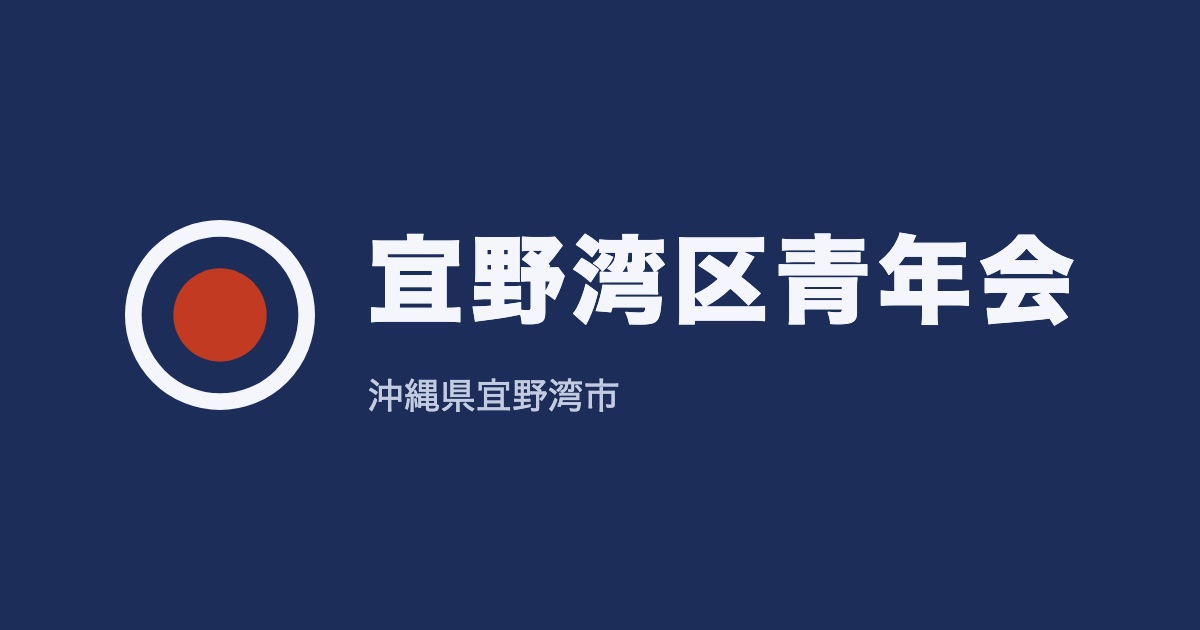
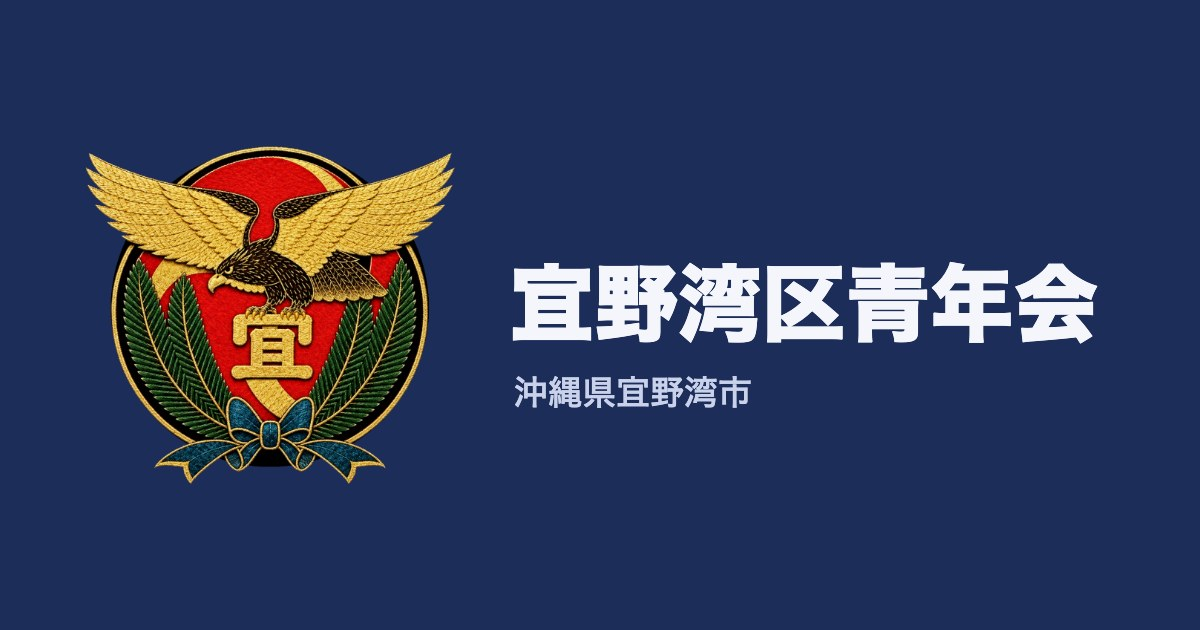
feat: 会のエンブレムをヘッダー・ファビコン・ロゴ・共有画像に使う

Changed region(s): [[0.0617, 0.2111, 0.925, 0.7841]]

diff --git a/src/styles/global.css b/src/styles/global.css
@@ -151,12 +151,20 @@ h1:focus {
 .brand {
   display: inline-flex;
   align-items: center;
+  gap: 10px;
   min-height: 44px;
   color: var(--head);
   font-size: 18px;
   font-weight: 800;
   letter-spacing: 0.04em;
   text-decoration: none;
+}
+
+/* ヘッダーの会のしるし（エンブレム） */
+.brand-mark {
+  flex: none;
+  width: 40px;
+  height: 40px;
 }
 
 .menu-btn {
